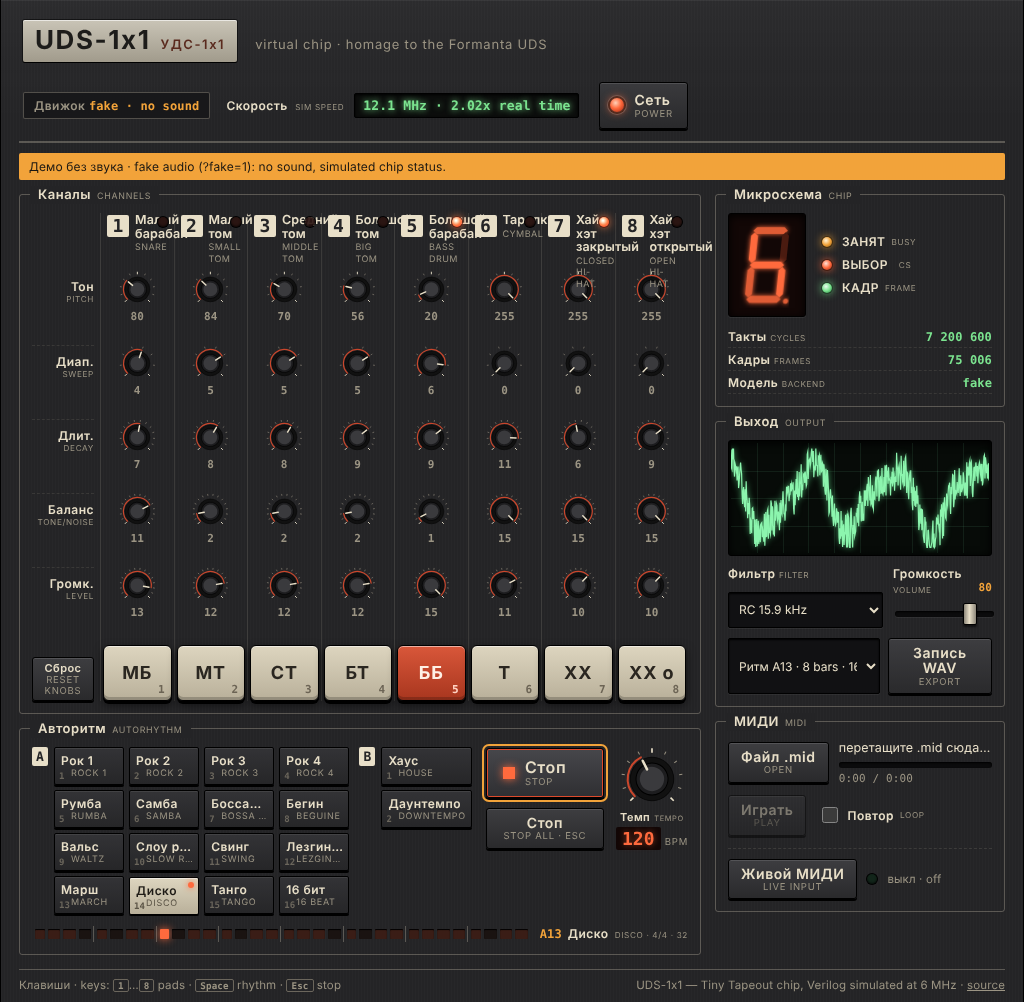
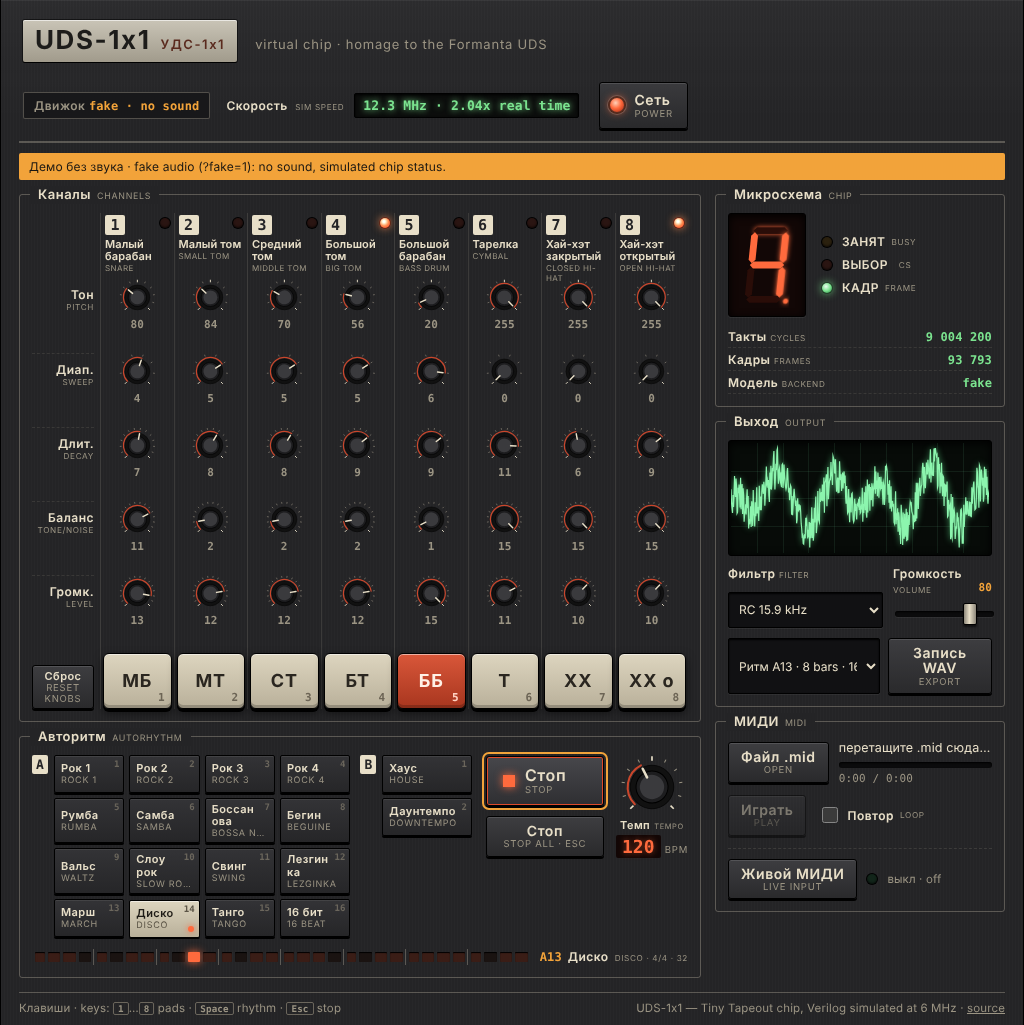
ui: tests under the root Playwright config, 1024 px layout
Claude-Session: https://claude.ai/code/session_01DxrHn66ESfrzLtxsJb9K4x

diff --git a/app/ui/panel.css b/app/ui/panel.css
@@ -366,6 +366,16 @@ body[data-state="running"] .led#led-frame { }
   .strips { grid-template-columns: 68px repeat(8, minmax(0, 1fr)); }
   .legend-row { font-size: 12px; }
 }
+@media (min-width: 760px) and (max-width: 1279px) {
+  .strips-block { --headh: 66px; }
+  .pat-nm .ru { white-space: normal; overflow-wrap: anywhere; font-size: 11px; }
+  .strip-head { grid-template-columns: auto minmax(0, 1fr) auto; row-gap: 3px; padding: 0 2px; }
+  .strip-num { grid-row: 1; width: 20px; height: 20px; font-size: 15px; }
+  .strip-names { grid-column: 1 / -1; grid-row: 2; }
+  .strip-names .ru { font-size: 11px; hyphens: auto; overflow-wrap: anywhere; }
+  .strip-names small { font-size: 8px; }
+  .strip-led { margin-top: 5px; }
+}
 
 /* ---------- narrow: stack ---------- */
 @media (max-width: 899px) {
